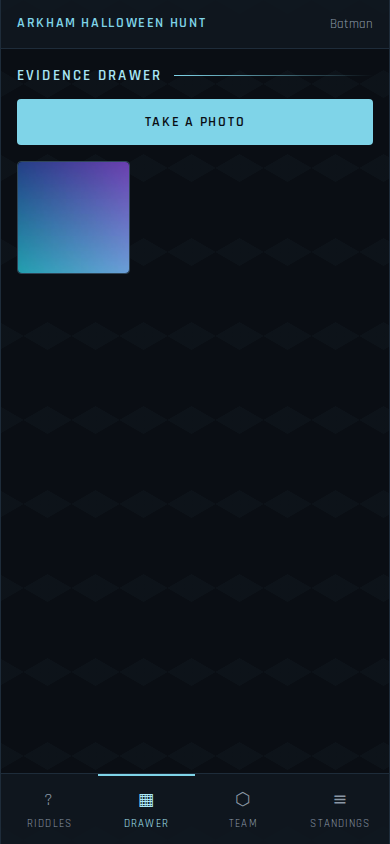
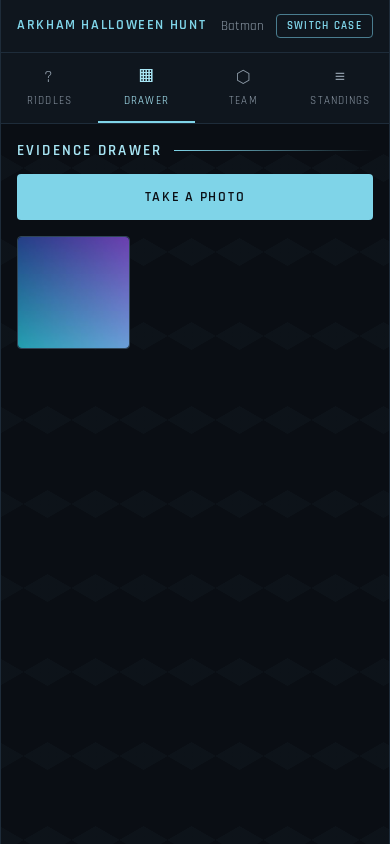
Pin the header and tabs to the top of the player screens
On an iPhone in Safari the tab bar sat below the fold, because 100vh
there is the viewport with the URL bar hidden. On a long board the tabs
came after all the content while the header, with Switch Case, scrolled
away. Both now sit in one sticky bar at the top, the frame uses 100dvh,
and viewport-fit=cover with the safe-area insets clears the installed
app's translucent status bar (ADR 0034).

TKT-01M390Y0PN10W11HEB6FM91PZ6 (Pin the header and tabs to the top of the
player screens).

diff --git a/web/e2e/top-controls.spec.js b/web/e2e/top-controls.spec.js
@@ -1,0 +1,77 @@
+// The header and tabs stay on screen while a long board scrolls (ADR 0034,
+// TKT-01M390Y0PN10W11HEB6FM91PZ6).
+//
+// On an iPhone the tab bar used to sit after all the content, and the
+// header with Switch Case scrolled away above it, so every tab change
+// began with a scroll. This fills a board past the fold at 390x844,
+// scrolls to the end, and checks the pinned bar is still in view and
+// usable, without covering the start of the screen or overflowing.
+import { expect, test } from '@playwright/test';
+
+import { adminApi, loginAdmin } from './support';
+
+let admin;
+let event;
+
+test.beforeAll(async ({ playwright }) => {
+  admin = await adminApi(playwright);
+  await loginAdmin(admin);
+  event = await (await admin.post('/api/admin/events', { data: { name: 'Long Night Hunt' } })).json();
+  for (let i = 1; i <= 30; i += 1) {
+    const riddle = await admin.post(`/api/admin/events/${event.id}/riddles`, {
+      data: { text: `Riddle number ${i}: find the thing that answers it`, sort_order: i },
+    });
+    expect(riddle.status()).toBe(201);
+  }
+  expect((await admin.post(`/api/admin/events/${event.id}/open`)).ok()).toBeTruthy();
+});
+
+test.afterAll(async () => {
+  await admin?.dispose();
+});
+
+// Whether the element lies wholly inside the viewport.
+async function inView(page, locator) {
+  const box = await locator.boundingBox();
+  const { height } = page.viewportSize();
+  return box !== null && box.y >= 0 && box.y + box.height <= height;
+}
+
+test('the header and tabs stay pinned at the top of a long board', async ({ page }) => {
+  await page.setViewportSize({ width: 390, height: 844 });
+  await page.goto(`/j/${event.join_code}`);
+  await page.getByLabel('Codename').fill('Robin');
+  await page.getByRole('button', { name: 'Join the Hunt' }).click();
+  await expect(page.getByRole('heading', { name: 'Riddle Board' })).toBeVisible();
+
+  const bar = page.locator('.top-bar');
+  const switchCase = page.getByRole('button', { name: 'Switch Case' });
+  const standings = page.getByRole('link', { name: /Standings/ });
+
+  // The bar starts at the top, and the board's heading starts below it.
+  const barBox = await bar.boundingBox();
+  expect(barBox.y).toBe(0);
+  const heading = await page.getByRole('heading', { name: 'Riddle Board' }).boundingBox();
+  expect(heading.y).toBeGreaterThanOrEqual(barBox.y + barBox.height - 1);
+
+  // The board is long enough to scroll; at its end the controls are still
+  // in view, and the bar has not moved.
+  const scrollable = await page.evaluate(
+    () => document.documentElement.scrollHeight - window.innerHeight,
+  );
+  expect(scrollable).toBeGreaterThan(200);
+  await page.evaluate(() => window.scrollTo(0, document.documentElement.scrollHeight));
+  await expect.poll(() => page.evaluate(() => window.scrollY)).toBeGreaterThan(200);
+  expect(await inView(page, switchCase)).toBe(true);
+  expect(await inView(page, standings)).toBe(true);
+  expect((await bar.boundingBox()).y).toBe(0);
+
+  // A tab works from there without scrolling back.
+  await standings.click();
+  await expect(standings).toHaveAttribute('aria-current', 'page');
+
+  const overflow = await page.evaluate(
+    () => document.documentElement.scrollWidth - document.documentElement.clientWidth,
+  );
+  expect(overflow).toBeLessThanOrEqual(1);
+});

diff --git a/web/src/main.jsx b/web/src/main.jsx
@@ -136,11 +136,13 @@ function PlayerApp() {
   if (snapshot.event.status === 'lobby') {
     return (
       <div class="frame" data-testid="app-frame">
-        <Header
-          eventName={snapshot.event.name}
-          playerName={snapshot.me.display_name}
-          action={<SwitchGame copy={copy} />}
-        />
+        <div class="top-bar">
+          <Header
+            eventName={snapshot.event.name}
+            playerName={snapshot.me.display_name}
+            action={<SwitchGame copy={copy} />}
+          />
+        </div>
         <LobbyScreen copy={copy} />
       </div>
     );
@@ -192,35 +194,44 @@ function GameShell({ snapshot, copy }) {
 
   return (
     <div class="frame" data-testid="app-frame">
-      <Header
-        eventName={snapshot.event.name}
-        playerName={snapshot.me.display_name}
-        action={<SwitchGame copy={copy} />}
-      />
+      {/* Header and tabs pinned together at the top (ADR 0034): every
+          control stays on screen while the board scrolls, and nothing
+          depends on where Safari's bottom bar sits. */}
+      <div class="top-bar">
+        <Header
+          eventName={snapshot.event.name}
+          playerName={snapshot.me.display_name}
+          action={<SwitchGame copy={copy} />}
+        />
+        <GameTabs tab={tab} copy={copy} onTab={(next) => { setOpenRiddle(null); setTab(next); }} />
+      </div>
       {screen}
       {/* The strike-1 interstitial overlays the whole app (mock: dimmed
           board behind). Un-themed by rule — the component carries its
           own plain copy. */}
       {snapshot.me.restriction?.pending_notice && <StrikeNoticeScreen />}
-      <nav class="tab-bar">
-        <a href="#" class={tab === 'riddles' ? 'active' : ''}
-           onClick={(e) => { e.preventDefault(); setOpenRiddle(null); setTab('riddles'); }}>
-          <span class="tab-icon">?</span>{copy.tabs.riddles}
-        </a>
-        <a href="#" class={tab === 'drawer' ? 'active' : ''}
-           onClick={(e) => { e.preventDefault(); setOpenRiddle(null); setTab('drawer'); }}>
-          <span class="tab-icon">▦</span>{copy.tabs.drawer}
-        </a>
-        <a href="#" class={tab === 'team' ? 'active' : ''}
-           onClick={(e) => { e.preventDefault(); setOpenRiddle(null); setTab('team'); }}>
-          <span class="tab-icon">⬡</span>{copy.tabs.team}
-        </a>
-        <a href="#" class={tab === 'standings' ? 'active' : ''}
-           onClick={(e) => { e.preventDefault(); setOpenRiddle(null); setTab('standings'); }}>
-          <span class="tab-icon">≡</span>{copy.tabs.standings}
-        </a>
-      </nav>
     </div>
+  );
+}
+
+const TABS = [
+  ['riddles', '?'],
+  ['drawer', '▦'],
+  ['team', '⬡'],
+  ['standings', '≡'],
+];
+
+function GameTabs({ tab, copy, onTab }) {
+  return (
+    <nav class="tab-bar">
+      {TABS.map(([key, icon]) => (
+        <a key={key} href="#" class={tab === key ? 'active' : ''}
+           aria-current={tab === key ? 'page' : undefined}
+           onClick={(e) => { e.preventDefault(); onTab(key); }}>
+          <span class="tab-icon">{icon}</span>{copy.tabs[key]}
+        </a>
+      ))}
+    </nav>
   );
 }
 

diff --git a/web/src/themes/arkham/theme.css b/web/src/themes/arkham/theme.css
@@ -60,7 +60,14 @@ body {
   font-family: var(--font-body);
   font-weight: 400;
   line-height: 1.45;
+  /* 100vh on iOS Safari is the viewport with its URL bar hidden, so it
+     overshoots while the bar shows; dvh tracks what is visible. 100vh
+     stays first as the fallback for engines without dvh. */
   min-height: 100vh;
+  min-height: 100dvh;
+  /* index.html sets viewport-fit=cover, so the page runs under the home
+     indicator; this keeps the last item of a long screen clear of it. */
+  padding-bottom: env(safe-area-inset-bottom);
   /* Faint hex/tech patterning — Batcomputer panel texture. */
   background-image:
     linear-gradient(30deg, rgba(127, 212, 232, 0.025) 12%, transparent 12.5%, transparent 87%, rgba(127, 212, 232, 0.025) 87.5%),
@@ -73,6 +80,7 @@ body {
   max-width: 420px;
   margin: 0 auto;
   min-height: 100vh;
+  min-height: 100dvh;
   border-left: var(--rule);
   border-right: var(--rule);
   display: flex;
@@ -104,10 +112,23 @@ body {
   color: var(--text-dim);
 }
 
+/* The header and tabs, pinned together at the top of every player
+   screen (ADR 0034). At the top, a scrolled board never hides the
+   controls, installed or in Safari, and nothing depends on where
+   Safari's own bottom bar sits. The bar is opaque because content now
+   scrolls under it; the header and tabs keep their panel tint on top.
+   The top inset clears the installed app's translucent status bar. */
+.top-bar {
+  position: sticky;
+  top: 0;
+  z-index: 10;
+  background: var(--bg-deep);
+  padding-top: env(safe-area-inset-top);
+}
+
 .tab-bar {
-  margin-top: auto;
   display: flex;
-  border-top: var(--rule);
+  border-bottom: var(--rule);
   background: var(--bg-panel-translucent);
 }
 
@@ -121,12 +142,13 @@ body {
   font-size: 0.7rem;
   color: var(--text-dim);
   text-decoration: none;
-  border-top: 2px solid transparent;
+  /* The accent sits on the edge facing the content below the bar. */
+  border-bottom: 2px solid transparent;
 }
 
 .tab-bar a.active {
   color: var(--cyan-bright);
-  border-top-color: var(--cyan);
+  border-bottom-color: var(--cyan);
 }
 
 .tab-bar .tab-icon { display: block; font-size: 1.1rem; margin-bottom: 2px; }

diff --git a/web/src/main.test.jsx b/web/src/main.test.jsx
@@ -134,6 +134,36 @@ describe('app entry', () => {
     }
   });
 
+  it('pins the header and the tabs together at the top of the game (ADR 0034)', async () => {
+    mocks.getState.mockReturnValue({
+      phase: 'ready',
+      role: 'player',
+      snapshot: {
+        event: { status: 'open', name: 'Party' },
+        me: { display_name: 'Robin', restriction: {} },
+      },
+      copy: {
+        screens: { header: { switchGame: 'SWITCH_SENTINEL' } },
+        tabs: { riddles: 'Riddles', drawer: 'Drawer', team: 'Team', standings: 'Standings' },
+      },
+    });
+
+    await import('./main.jsx');
+
+    const switchCase = await screen.findByRole('button', { name: 'SWITCH_SENTINEL' });
+    const bar = switchCase.closest('.top-bar');
+    expect(bar).toBeTruthy();
+    // The bar leads the frame, so the screen scrolls under it.
+    expect(bar.parentElement.firstElementChild).toBe(bar);
+    const tabs = [...bar.querySelectorAll('.tab-bar a')];
+    expect(tabs.map((a) => a.textContent)).toEqual(['?Riddles', '▦Drawer', '⬡Team', '≡Standings']);
+    expect(tabs[0].getAttribute('aria-current')).toBe('page');
+
+    fireEvent.click(tabs[2]);
+    await waitFor(() => expect(tabs[2].getAttribute('aria-current')).toBe('page'));
+    expect(tabs[0].getAttribute('aria-current')).toBeNull();
+  });
+
   it('renders the boot line from the default theme pack', async () => {
     mocks.getState.mockReturnValue({ phase: 'booting' });
 

diff --git a/web/index.html b/web/index.html
@@ -2,7 +2,7 @@
 <html lang="en">
 <head>
   <meta charset="utf-8">
-  <meta name="viewport" content="width=device-width, initial-scale=1">
+  <meta name="viewport" content="width=device-width, initial-scale=1, viewport-fit=cover">
   <meta name="theme-color" content="#0a0e14">
   <meta name="mobile-web-app-capable" content="yes">
   <meta name="apple-mobile-web-app-capable" content="yes">

diff --git a/docs/adr/0034-pin-the-player-controls-at-the-top.md b/docs/adr/0034-pin-the-player-controls-at-the-top.md
@@ -1,0 +1,70 @@
+# 0034. Pin the player controls at the top
+
+Date: 2026-09-24
+Status: accepted
+
+## Context
+
+Every player screen had the same shell: the header (event, codename and,
+since ADR 0033, Switch Case), then the screen, then the tab bar (Riddles,
+Drawer, Team, Standings). The tab bar was in normal flow, pushed down with
+`margin-top: auto`, and the frame was `min-height: 100vh`.
+
+Drew tested on an iPhone in Safari, not installed, and had to scroll to
+change tabs (TKT-01M390Y0PN10W11HEB6FM91PZ6). There were two causes:
+
+- On iOS Safari `100vh` is the viewport measured with the URL bar hidden.
+  While the bar shows, the frame is taller than the screen, so even a
+  short screen scrolls to reach the tabs.
+- On a long screen, like a full riddle board, the tabs come after all
+  the content, and the header scrolls away above.
+
+Drew asked to move the controls to the top, so that nobody has to scroll
+to switch, installed or not.
+
+## Decision
+
+The header and the tab bar sit together in one `.top-bar` that is
+`position: sticky; top: 0` at the start of the frame. The lobby, which
+has no tabs, pins its header the same way. The screen scrolls under the
+bar, so the bar has an opaque background.
+
+- `body` and `.frame` use `min-height: 100dvh`, after `100vh` as the
+  fallback for engines without dynamic viewport units.
+- `index.html` sets `viewport-fit=cover`. The installed app already asks
+  for a `black-translucent` status bar, which draws over the page, so the
+  bar pads its top by `env(safe-area-inset-top)`. The body pads its bottom
+  by `env(safe-area-inset-bottom)` so a long screen's last item clears the
+  home indicator.
+- The active tab's accent moves from the tab's top edge to its bottom
+  edge, the side facing the content.
+
+The moderator console and the admin page are unchanged. Neither has
+player tabs, and the console already sizes itself with `dvh` (ADR 0029).
+
+## Alternatives
+
+- **A sticky bar at the bottom.** This was the ticket's first plan, and
+  it is where phone apps usually put tabs. But in Safari it sits right
+  above the browser's own bottom bar, which grows and shrinks as the page
+  scrolls. Two stacked bars there are easy to mistap. It would also
+  leave Switch Case in the header, scrolling away, so a player would
+  still scroll for one of the two controls.
+- **A fixed (not sticky) bar.** It would need the content padded by a
+  bar height that changes with font size (the resize-text spec runs at
+  200%). Sticky keeps the bar in flow, so it takes its own space.
+- **Only switching to `100dvh`.** This fixes short screens but not a long
+  board, where the tabs still come after the content.
+
+## Consequences
+
+- The bar is about 124px at 390px wide, and it stays on screen while the
+  screen scrolls. That costs space on a long board, and in exchange every
+  tab and Switch Case is always one tap away.
+- `web/e2e/top-controls.spec.js` fills a board past the fold at 390x844.
+  It scrolls to the end and checks that the bar has not moved, that Switch
+  Case and the tabs are in view, and that a tab works from there. It also
+  checks that the board's heading starts below the bar and nothing
+  overflows sideways.
+- The README screenshots of the board, drawer and standings show the tabs
+  under the header.

diff --git a/docs/progress.md b/docs/progress.md
@@ -46,6 +46,13 @@ when the increment runs and its tests pass.
 
 ## Notes / blockers
 
+- **2026-09-24 — The header and tabs are pinned at the top.**
+  TKT-01M390Y0PN10W11HEB6FM91PZ6: on an iPhone the tabs sat below the
+  fold and the header scrolled away. Both now sit in one sticky bar at the
+  top of every player screen. The frame uses `100dvh`, and the installed
+  app's translucent status bar is cleared with `viewport-fit=cover` and
+  the safe-area insets (ADR 0034).
+
 - **2026-09-24 — Players can switch games and sign out.**
   TKT-01M3AHXRSWN97AMT49NYYBB38W and TKT-01M3AHXRV1Q0NE8GCYVFKXJMCG. Switch
   Case in the header (`POST /api/leave`) ends the session but keeps the
